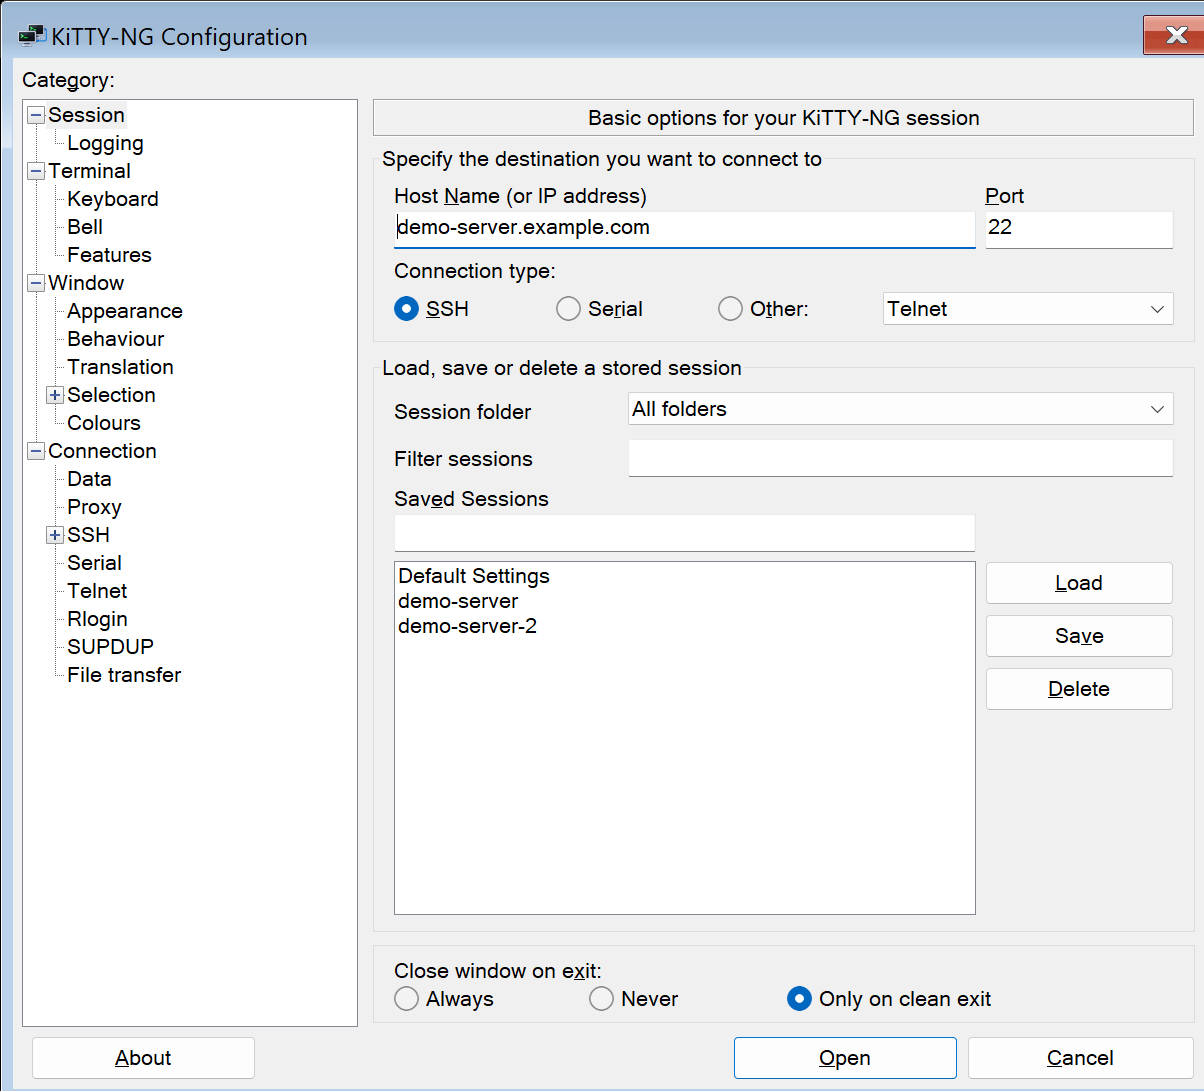
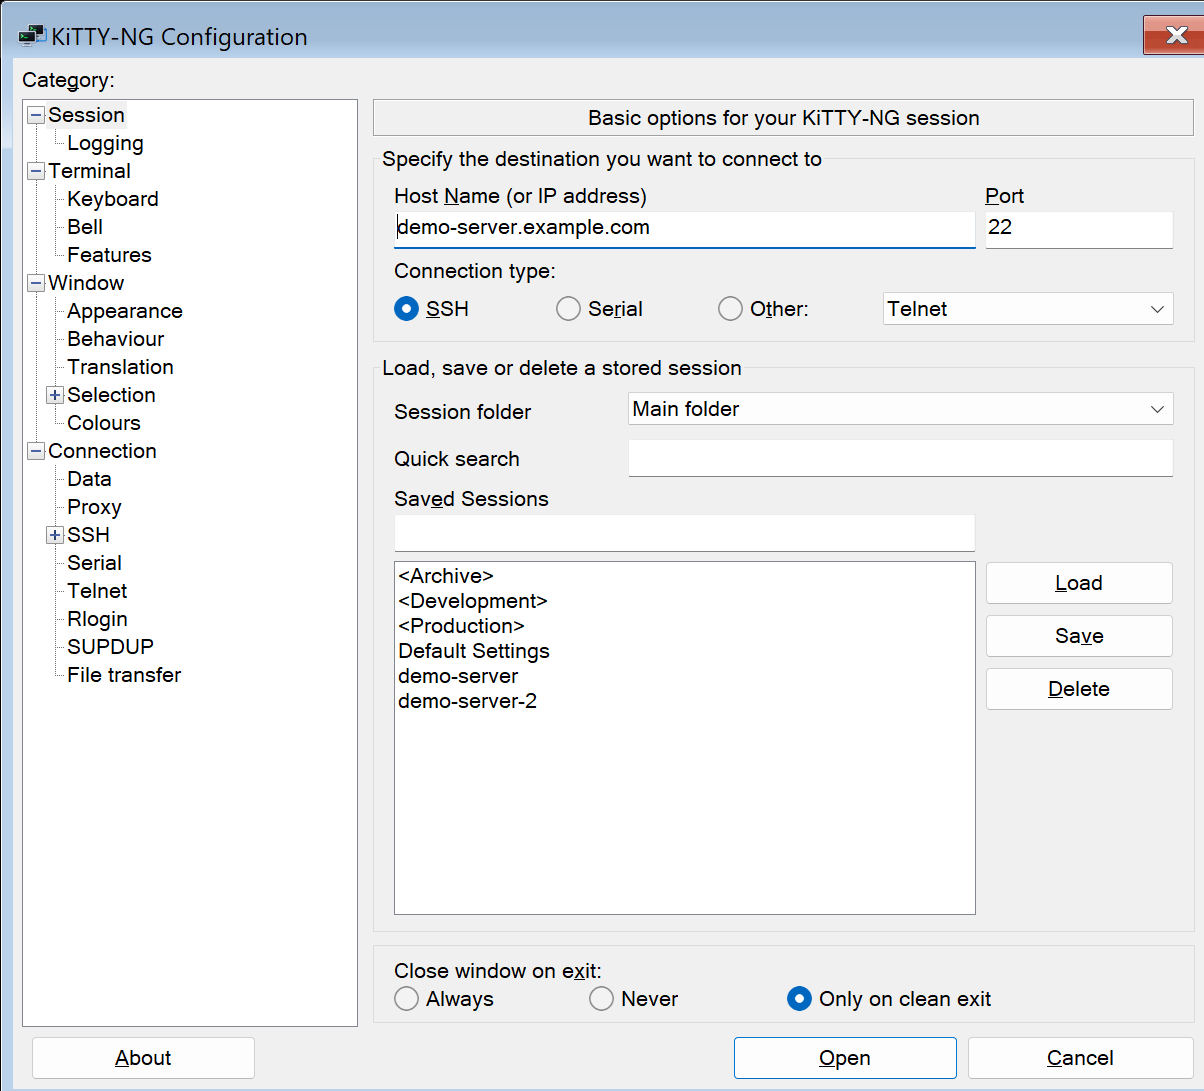
Добавить навигацию по папкам сеансов и быстрый поиск без учёта регистра

Changed region(s): [[0.338, 0.4986, 0.461, 0.6544], [0.5224, 0.3428, 0.6146, 0.4051], [0.338, 0.4051, 0.4302, 0.4363]]

diff --git a/config.c b/config.c
@@ -9,6 +9,7 @@
 #include "putty.h"
 #ifdef _WIN32
 #include "kittyng.h"
+#include "kittyng-portable.h"
 #define dupprintf kr_printf
 #define ui_listbox_add kr_listbox_add_label
 #define session_list_add kr_listbox_addwithid_raw
@@ -18,6 +19,7 @@
 #endif
 #include "dialog.h"
 #include "storage.h"
+#include "session-browser.h"
 #include "tree234.h"
 
 #define PRINTER_DISABLED_STRING "None (printing disabled)"
@@ -827,11 +829,26 @@ static void select_session_id(struct sessionsaver_data *ssd, dlgparam *dlg, int 
     dlg_listbox_select(ssd->listbox, dlg, row < ssd->nvisible ? row : -1);
 }
 
-static bool session_visible(struct sessionsaver_data *ssd, const char *name)
+static bool navigate_session_folder(struct sessionsaver_data *ssd, dlgparam *dlg)
 {
-    size_t n = strlen(ssd->folder);
-    if (n && (strncmp(name, ssd->folder, n) || name[n] != '/')) return false;
-    return !*ssd->filter || strstr(name, ssd->filter) != NULL;
+    int row = dlg_listbox_index(ssd->listbox, dlg);
+    if (row < 0) return false;
+    int id = dlg_listbox_getid(ssd->listbox, dlg, row);
+    if (id >= 0) return false;
+    char *folder;
+    if (id == -1) {
+        folder = session_browser_parent(ssd->folder);
+    } else {
+        int index = -id - 2;
+        if (index < 1 || index >= ssd->nfolders) return false;
+        folder = dupstr(ssd->folders[index]);
+    }
+    sfree(ssd->folder); ssd->folder = folder;
+    sfree(ssd->filter); ssd->filter = dupstr("");
+    dlg_refresh(ssd->filterbox, dlg);
+    dlg_refresh(ssd->folderbox, dlg);
+    dlg_refresh(ssd->listbox, dlg);
+    return true;
 }
 
 /*
@@ -879,6 +896,14 @@ static void sessionsaver_handler(dlgcontrol *ctrl, dlgparam *dlg,
             sfree(ssd->folders);
             ssd->folders = snewn(1, char *);
             ssd->folders[0] = dupstr(""); ssd->nfolders = 1;
+#ifdef _WIN32
+            for (int i = 0; ; i++) {
+                char *folder = kr_session_folder_enum(i);
+                if (!folder) break;
+                ssd->folders = sresize(ssd->folders, ++ssd->nfolders, char *);
+                ssd->folders[ssd->nfolders - 1] = folder;
+            }
+#endif
             for (int i = 0; i < ssd->sesslist.nsessions; i++) {
                 const char *name = ssd->sesslist.sessions[i];
                 for (const char *slash = strchr(name, '/'); slash;
@@ -895,7 +920,7 @@ static void sessionsaver_handler(dlgcontrol *ctrl, dlgparam *dlg,
             }
             dlg_update_start(ctrl, dlg);
             dlg_listbox_clear(ctrl, dlg);
-            dlg_listbox_addwithid(ctrl, dlg, "All folders", 0);
+            dlg_listbox_addwithid(ctrl, dlg, "Main folder", 0);
             int selected = 0;
             for (int i = 1; i < ssd->nfolders; i++) {
                 session_list_add(ctrl, dlg, ssd->folders[i], i);
@@ -911,17 +936,31 @@ static void sessionsaver_handler(dlgcontrol *ctrl, dlgparam *dlg,
             dlg_update_start(ctrl, dlg);
             dlg_listbox_clear(ctrl, dlg);
             ssd->nvisible = 0;
+            if (*ssd->folder) {
+                session_list_add(ctrl, dlg, "..", -1);
+                ssd->nvisible++;
+            }
+            for (i = 1; i < ssd->nfolders; i++) {
+                const char *name = session_browser_relative(ssd->folder, ssd->folders[i]);
+                if (!name || !*name || strchr(name, '/') ||
+                    !session_browser_match(name, ssd->filter)) continue;
+                char *label = dupprintf("<%s>", name);
+                session_list_add(ctrl, dlg, label, -i - 2);
+                sfree(label);
+                ssd->nvisible++;
+            }
             for (i = 0; i < ssd->sesslist.nsessions; i++) {
-                if (!session_visible(ssd, ssd->sesslist.sessions[i])) continue;
+                const char *name = session_browser_relative(ssd->folder, ssd->sesslist.sessions[i]);
+                if (!name || strchr(name, '/') || !session_browser_match(name, ssd->filter)) continue;
                 if (!strcmp(ssd->sesslist.sessions[i], "Default Settings"))
                     dlg_listbox_addwithid(ctrl, dlg, ssd->sesslist.sessions[i], i);
                 else
-                    session_list_add(ctrl, dlg, ssd->sesslist.sessions[i], i);
+                    session_list_add(ctrl, dlg, name, i);
                 ssd->nvisible++;
             }
             dlg_update_done(ctrl, dlg);
         }
-    } else if (event == EVENT_VALCHANGE) {
+    } else if (event == EVENT_VALCHANGE || event == EVENT_SELCHANGE) {
         int top, bottom, halfway, i;
         if (ctrl == ssd->filterbox) {
             sfree(ssd->filter); ssd->filter = dlg_editbox_get(ctrl, dlg);
@@ -956,6 +995,8 @@ static void sessionsaver_handler(dlgcontrol *ctrl, dlgparam *dlg,
         }
     } else if (event == EVENT_ACTION) {
         bool mbl = false;
+        if ((ctrl == ssd->listbox || ctrl == ssd->loadbutton) &&
+            navigate_session_folder(ssd, dlg)) return;
         if (!ssd->midsession &&
             (ctrl == ssd->listbox ||
              (ssd->loadbutton && ctrl == ssd->loadbutton))) {
@@ -998,8 +1039,8 @@ static void sessionsaver_handler(dlgcontrol *ctrl, dlgparam *dlg,
             get_sesslist(&ssd->sesslist, false);
             get_sesslist(&ssd->sesslist, true);
             dlg_refresh(ssd->editbox, dlg);
-            dlg_refresh(ssd->listbox, dlg);
             dlg_refresh(ssd->folderbox, dlg);
+            dlg_refresh(ssd->listbox, dlg);
         } else if (!ssd->midsession &&
                    ssd->delbutton && ctrl == ssd->delbutton) {
             int i = selected_session_id(ssd, dlg);
@@ -1009,10 +1050,12 @@ static void sessionsaver_handler(dlgcontrol *ctrl, dlgparam *dlg,
                 del_settings(ssd->sesslist.sessions[i]);
                 get_sesslist(&ssd->sesslist, false);
                 get_sesslist(&ssd->sesslist, true);
-                dlg_refresh(ssd->listbox, dlg);
                 dlg_refresh(ssd->folderbox, dlg);
+                dlg_refresh(ssd->listbox, dlg);
             }
         } else if (ctrl == ssd->okbutton) {
+            if (dlg_last_focused(ctrl, dlg) == ssd->listbox &&
+                navigate_session_folder(ssd, dlg)) return;
             if (ssd->midsession) {
                 /* In a mid-session Change Settings, Apply is always OK. */
                 dlg_end(dlg, 1);
@@ -2006,7 +2049,7 @@ void setup_config_box(struct controlbox *b, bool midsession,
                     "Load, save or delete a stored session");
     ssd->folderbox = ctrl_droplist(s, "Session folder", NO_SHORTCUT, 70,
                                   HELPCTX(session_saved), sessionsaver_handler, P(ssd));
-    ssd->filterbox = ctrl_editbox(s, "Filter sessions", NO_SHORTCUT, 70,
+    ssd->filterbox = ctrl_editbox(s, "Quick search", NO_SHORTCUT, 70,
                                  HELPCTX(session_saved), sessionsaver_handler, P(ssd), P(NULL));
     ctrl_columns(s, 2, 75, 25);
     get_sesslist(&ssd->sesslist, true);

diff --git a/test/test_session_browser.c b/test/test_session_browser.c
@@ -1,0 +1,45 @@
+#include "putty.h"
+#include "session-browser.h"
+#include "kittyng-portable.h"
+#define CHECK(x) do { if (!(x)) { fprintf(stderr, "FAIL: %s:%d: %s\n", __FILE__, __LINE__, #x); return 1; } } while (0)
+const char *const appname = "session-browser-test";
+void modalfatalbox(const char *format, ...) { abort(); }
+
+int main(void)
+{
+    char *parent = session_browser_parent("prod/sub");
+    CHECK(!strcmp(parent, "prod")); sfree(parent);
+    parent = session_browser_parent("prod");
+    CHECK(!*parent); sfree(parent);
+    parent = session_browser_parent("");
+    CHECK(!*parent); sfree(parent);
+    CHECK(!strcmp(session_browser_relative("", "alpha"), "alpha"));
+    CHECK(!strcmp(session_browser_relative("prod", "prod/root"), "root"));
+    CHECK(!strcmp(session_browser_relative("prod", "prod/sub/root"), "sub/root"));
+    CHECK(session_browser_relative("prod", "production/root") == NULL);
+    CHECK(session_browser_relative("prod", "prod") == NULL);
+    CHECK(session_browser_relative("prod/sub", "prod/root") == NULL);
+    CHECK(session_browser_match("Server-ROOT", "server-root"));
+    CHECK(session_browser_match("Server-ROOT", "rOoT"));
+    CHECK(!session_browser_match("Server-ROOT", "root-longer-than-name"));
+    CHECK(!session_browser_match("Server-ROOT", "router"));
+    CHECK(session_browser_match("Server-ROOT", ""));
+    char *upper = dup_wc_to_mb(CP_ACP, L"\x0421\x0415\x0420\x0412\x0415\x0420", "");
+    char *lower = dup_wc_to_mb(CP_ACP, L"\x0441\x0435\x0440\x0432\x0435\x0440", "");
+    CHECK(session_browser_match(upper, lower));
+    sfree(upper); sfree(lower);
+    CHECK(kr_portable());
+    bool empty = false, nested = false, encoded = false;
+    for (int i = 0; ; i++) {
+        char *folder = kr_session_folder_enum(i);
+        if (!folder) break;
+        empty |= !strcmp(folder, "empty");
+        nested |= !strcmp(folder, "prod/sub");
+        encoded |= !strcmp(folder, "space folder");
+        CHECK(strcmp(folder, "session-file"));
+        sfree(folder);
+    }
+    CHECK(empty && nested && encoded);
+    puts("PASS: root scope, folder boundaries, nested paths, case-insensitive search, empty portable directories");
+    return 0;
+}

diff --git a/windows/kittyng-translations.h b/windows/kittyng-translations.h
@@ -616,8 +616,8 @@
     {"which was signed by a different certification authority from the %s %s is configured to trust for this server.", "\320\277\320\276\320\264\320\277\320\270\321\201\320\260\320\275\320\275\321\213\320\271 \320\264\321\200\321\203\320\263\320\270\320\274 \321\203\320\264\320\276\321\201\321\202\320\276\320\262\320\265\321\200\321\217\321\216\321\211\320\270\320\274 \321\206\320\265\320\275\321\202\321\200\320\276\320\274, \321\207\320\265\320\274 %s, \320\272\320\276\321\202\320\276\321\200\320\276\320\274\321\203 %s \320\275\320\260\321\201\321\202\321\200\320\276\320\265\320\275 \320\264\320\276\320\262\320\265\321\200\321\217\321\202\321\214 \320\264\320\273\321\217 \321\215\321\202\320\276\320\263\320\276 \321\201\320\265\321\200\320\262\320\265\321\200\320\260."},
     {"Request", "\320\227\320\260\320\277\321\200\320\260\321\210\320\270\320\262\320\260\321\202\321\214"},
     {"Session folder", "\320\232\320\260\321\202\320\260\320\273\320\276\320\263 \321\201\320\265\320\260\320\275\321\201\320\276\320\262"},
-    {"Filter sessions", "\320\244\320\270\320\273\321\214\321\202\321\200 \321\201\320\265\320\260\320\275\321\201\320\276\320\262"},
-    {"All folders", "\320\222\321\201\320\265 \320\272\320\260\321\202\320\260\320\273\320\276\320\263\320\270"},
+    {"Quick search", "\320\221\321\213\321\201\321\202\321\200\321\213\320\271 \320\277\320\276\320\270\321\201\320\272"},
+    {"Main folder", "\320\223\320\273\320\260\320\262\320\275\320\260\321\217 \320\277\320\260\320\277\320\272\320\260"},
     {"press \042Accept\042", "\320\275\320\260\320\266\320\274\320\270\321\202\320\265 \302\253\320\237\321\200\320\270\320\275\321\217\321\202\321\214\302\273"},
     {"press \042Connect Once\042", "\320\275\320\260\320\266\320\274\320\270\321\202\320\265 \302\253\320\237\320\276\320\264\320\272\320\273\321\216\321\207\320\270\321\202\321\214\321\201\321\217 \320\276\320\264\320\270\320\275 \321\200\320\260\320\267\302\273"},
     {"press \042Cancel\042", "\320\275\320\260\320\266\320\274\320\270\321\202\320\265 \302\253\320\236\321\202\320\274\320\265\320\275\320\260\302\273"},

diff --git a/windows/kittyng-portable.c b/windows/kittyng-portable.c
@@ -432,7 +432,7 @@ bool kr_file_put(HKEY key, const char *name, const char *value)
 }
 
 static void collect(const wchar_t *directory, const char *prefix,
-                    bool recursive, char **result, int *index)
+                    bool recursive, bool folders, char **result, int *index)
 {
     wchar_t *pattern = join(directory, recursive ? L"*" : L"_*");
     WIN32_FIND_DATAW data;
@@ -457,11 +457,11 @@ static void collect(const wchar_t *directory, const char *prefix,
         }
         bool istemp = wcslen(data.cFileName) >= 4 &&
             !wcscmp(data.cFileName + wcslen(data.cFileName) - 4, L".tmp");
-        if (!recursive || (!isdir && !istemp && suffixmatch)) {
+        if (folders ? isdir : (!recursive || (!isdir && !istemp && suffixmatch))) {
             if ((*index)-- == 0) *result = dupstr(name);
         }
         if (recursive && isdir && !*result)
-            collect(subdir, name, true, result, index);
+            collect(subdir, name, true, folders, result, index);
         sfree(encoded); sfree(name); sfree(subdir);
     } while (!*result && FindNextFileW(search, &data));
     FindClose(search);
@@ -472,8 +472,21 @@ char *kr_file_enum(HKEY key, int index)
     FileKey *k = findkey(key);
     char *result = NULL;
     bool recursive = k->sessions;
-    collect(k->path, "", recursive, &result, &index);
+    collect(k->path, "", recursive, false, &result, &index);
     return result;
+}
+
+/* Include empty directories without treating them as stored sessions. */
+char *kr_session_folder_enum(int index)
+{
+    if (!kr_portable()) return NULL;
+    char *encoded = NULL;
+    collect(sessions_directory, "", true, true, &encoded, &index);
+    if (!encoded) return NULL;
+    strbuf *decoded = strbuf_new();
+    unescape_registry_key(encoded, decoded);
+    sfree(encoded);
+    return strbuf_to_str(decoded);
 }
 
 void kr_file_delete(HKEY key, const char *name)

diff --git a/session-browser.h b/session-browser.h
@@ -1,0 +1,50 @@
+/* Session identifiers stay unchanged; only the visible path is shortened. */
+#ifndef SESSION_BROWSER_H
+#define SESSION_BROWSER_H
+#include <ctype.h>
+
+static char *session_browser_parent(const char *folder)
+{
+    char *parent = dupstr(folder);
+    char *slash = strrchr(parent, '/');
+    if (slash) *slash = 0; else *parent = 0;
+    return parent;
+}
+
+static const char *session_browser_relative(const char *folder, const char *name)
+{
+    size_t n = strlen(folder);
+    if (!n) return name;
+    if (strncmp(folder, name, n) || name[n] != '/') return NULL;
+    return name + n + 1;
+}
+
+static bool session_browser_match(const char *name, const char *query)
+{
+    if (!*query) return true;
+#ifdef _WIN32
+    /* These are storage identifiers and edit-box text, both in CP_ACP. */
+    wchar_t *haystack = dup_mb_to_wc(CP_ACP, name);
+    wchar_t *needle = dup_mb_to_wc(CP_ACP, query);
+    size_t hn = wcslen(haystack), nn = wcslen(needle);
+    bool found = false;
+    for (size_t i = 0; nn <= hn && i <= hn - nn; i++) {
+        if (CompareStringOrdinal(haystack + i, nn, needle, nn, TRUE) == CSTR_EQUAL) {
+            found = true;
+            break;
+        }
+    }
+    sfree(haystack); sfree(needle);
+    return found;
+#else
+    size_t n = strlen(query);
+    for (; *name; name++) {
+        size_t i = 0;
+        while (i < n && name[i] &&
+               tolower((unsigned char)name[i]) == tolower((unsigned char)query[i])) i++;
+        if (i == n) return true;
+    }
+    return false;
+#endif
+}
+#endif

diff --git a/tools/local-build.py b/tools/local-build.py
@@ -256,6 +256,8 @@ def main():
                 compiler = json.loads((directory / "compiler.json").read_text())["compiler"].splitlines()[0]
                 if arch != "arm64":
                     suites = [
+                        ("session-browser", "test_session_browser", ["test/session_browser.py"],
+                         [PYTHON, "test/session_browser.py", directory / "test_session_browser.exe"]),
                         ("portable", "test_kittyng", ["test/run_kittyng.py"],
                          [PYTHON, "test/run_kittyng.py", directory / "test_kittyng.exe"]),
                         ("legacy", "test_kittyng_legacy", ["test/run_kittyng_legacy.py", "test/kittyng-legacy-vectors.json"],
@@ -290,7 +292,7 @@ def main():
                     files = source_dependencies(ninja, directory, [executable, cli_executable])
                     files -= {"windows/kittyng-companions.c", "windows/kittyng-companions.h"}
                     files -= {"windows/config.c", "windows/controls.c", "windows/dialog.c",
-                              "windows/kittyng-translations.h", "windows/kittyng-language.c", "config.c"}
+                              "windows/kittyng-translations.h", "windows/kittyng-language.c", "config.c", "session-browser.h"}
                     files = {f for f in files if not f.endswith((".rc", ".rc2", ".ico"))}
                     files.update({"test/ssh_saved_password.py", "test/kittyng-password-vector.json"})
                     key = arch + "/ssh"

diff --git a/tools/build-llvm.py b/tools/build-llvm.py
@@ -29,7 +29,7 @@ if metadata.exists(): info["toolchain"] = json.loads(metadata.read_text())
 info["source_commit"] = subprocess.check_output(["git", "-c", "safe.directory=" + str(root), "rev-parse", "HEAD"], cwd=root, text=True).strip()
 (directory / "compiler.json").write_text(json.dumps(info, indent=2) + "\n")
 targets = ["kitty-ng", "plink", "pscp", "psftp", "puttygen", "pageant"]
-if args.tests: targets += ["test_kittyng", "test_kittyng_legacy", "testcrypt", "test_host_strfoo", "test_bpp", "test_companion_probe", "test_language_controls"]
+if args.tests: targets += ["test_kittyng", "test_kittyng_legacy", "testcrypt", "test_host_strfoo", "test_bpp", "test_companion_probe", "test_language_controls", "test_session_browser"]
 commands = [
     [args.cmake, "-S", str(root), "-B", str(directory), "-G", "Ninja", "-DCMAKE_SYSTEM_NAME=Windows",
      "-DCMAKE_C_COMPILER=" + compiler.as_posix(),

diff --git a/test/session_browser.py b/test/session_browser.py
@@ -1,0 +1,15 @@
+"""Isolated portable folder fixture; never reads user settings."""
+import os
+from pathlib import Path
+import subprocess
+import sys
+import tempfile
+
+with tempfile.TemporaryDirectory(prefix="kitty-ng-browser-") as temporary:
+    root = Path(temporary)
+    for name in ("empty", "prod/sub", "space%20folder"):
+        (root / "Sessions" / name).mkdir(parents=True)
+    (root / "Sessions/session-file").write_text("HostName\\localhost\\\n")
+    environment = os.environ.copy()
+    environment["KITTY_NG_PORTABLE_DIR"] = str(root)
+    subprocess.run([sys.argv[1]], env=environment, check=True)

diff --git a/windows/kittyng-portable.h b/windows/kittyng-portable.h
@@ -9,6 +9,7 @@ HKEY kr_file_open(bool create, HKEY parent, const char *path);
 void kr_file_close(HKEY key);
 void kr_file_delete(HKEY key, const char *name);
 char *kr_file_enum(HKEY key, int index);
+char *kr_session_folder_enum(int index);
 char *kr_file_get(HKEY key, const char *name);
 bool kr_file_put(HKEY key, const char *name, const char *value);
 #endif

diff --git a/README.md b/README.md
@@ -61,7 +61,7 @@ SSH, Telnet и последовательный терминал для Windows 
 .\kitty-ng-x64.exe --portable-dir "D:\Terminal\KiTTY"
 ```
 
-Поддерживаются старые файлы сессий `Ключ\значение\`, кодирование `%XX`, вложенные каталоги, расширения файлов из `kitty.ini` и пути из `putty.conf`. Неизвестные поля старого KiTTY сохраняются при перезаписи сессии. В окне сессий доступны выбор папки и поиск по имени.
+Поддерживаются старые файлы сессий `Ключ\значение\`, кодирование `%XX`, вложенные каталоги, расширения файлов из `kitty.ini` и пути из `putty.conf`. Неизвестные поля старого KiTTY сохраняются при перезаписи сессии. Окно сеансов открывает главную папку: подкаталоги показаны как `<имя>`, двойной щелчок открывает папку, `..` возвращает на уровень выше. «Быстрый поиск» ищет по названиям в текущей папке без учёта регистра.
 
 Сохранённый пароль загружается из старого поля `Password` с учётом `cryptsalt`. В том числе поддерживается вход под `root`, обычная SSH-аутентификация паролем и запрос пароля через keyboard-interactive. Пароль хранится в совместимом обратимом формате KiTTY; это **не защищённое хранилище секретов**. Доступ к файлу сессии позволяет восстановить пароль. Не публикуйте реальные `Sessions`, `kitty.ini` и ключи.
 

diff --git a/README.en.md b/README.en.md
@@ -72,7 +72,7 @@ First make a backup of your old KiTTY directory. Place kitty-ng in the copy alon
 .\kitty-ng-x64.exe --portable-dir "D:\Terminal\KiTTY"
 ```
 
-The client supports legacy `Key\value\` session files, `%XX` encoding, nested directories, configured filename extensions, and paths from `putty.conf`. Unknown KiTTY fields are retained when a session is saved. The session window provides a folder selector and a name filter.
+The client supports legacy `Key\value\` session files, `%XX` encoding, nested directories, configured filename extensions, and paths from `putty.conf`. Unknown KiTTY fields are retained when a session is saved. The session window opens the main folder. Subfolders appear as `<name>`; double-click to enter, and use `..` to go up. **Quick search** matches names in the current folder without regard to case.
 
 Saved passwords are read from the legacy `Password` field using `cryptsalt`. This includes root login, SSH password authentication and keyboard-interactive password prompts. The format remains compatible with KiTTY and is reversible: **it is not a secure secrets vault**. Someone with access to a session file can recover its password. Do not publish personal `Sessions`, `kitty.ini` files or private keys.
 

diff --git a/docs/releases/unreleased.md b/docs/releases/unreleased.md
@@ -1,5 +1,7 @@
 # Неопубликованные изменения
 
-Изменения выбора и сохранения языка включены в выпуск `0.85-1`.
+- Окно сеансов открывается в главной папке. Подкаталоги отображаются как `<имя>`; двойной щелчок открывает каталог, `..` возвращает на уровень выше. Пустые портативные каталоги также доступны.
+- Поле `Quick search` / «Быстрый поиск» ищет по названиям в текущем каталоге без учёта регистра.
+- Исправлена обработка выбора каталога в раскрывающемся списке.
 
 Релиз выпускается только по отдельной команде пользователя.
